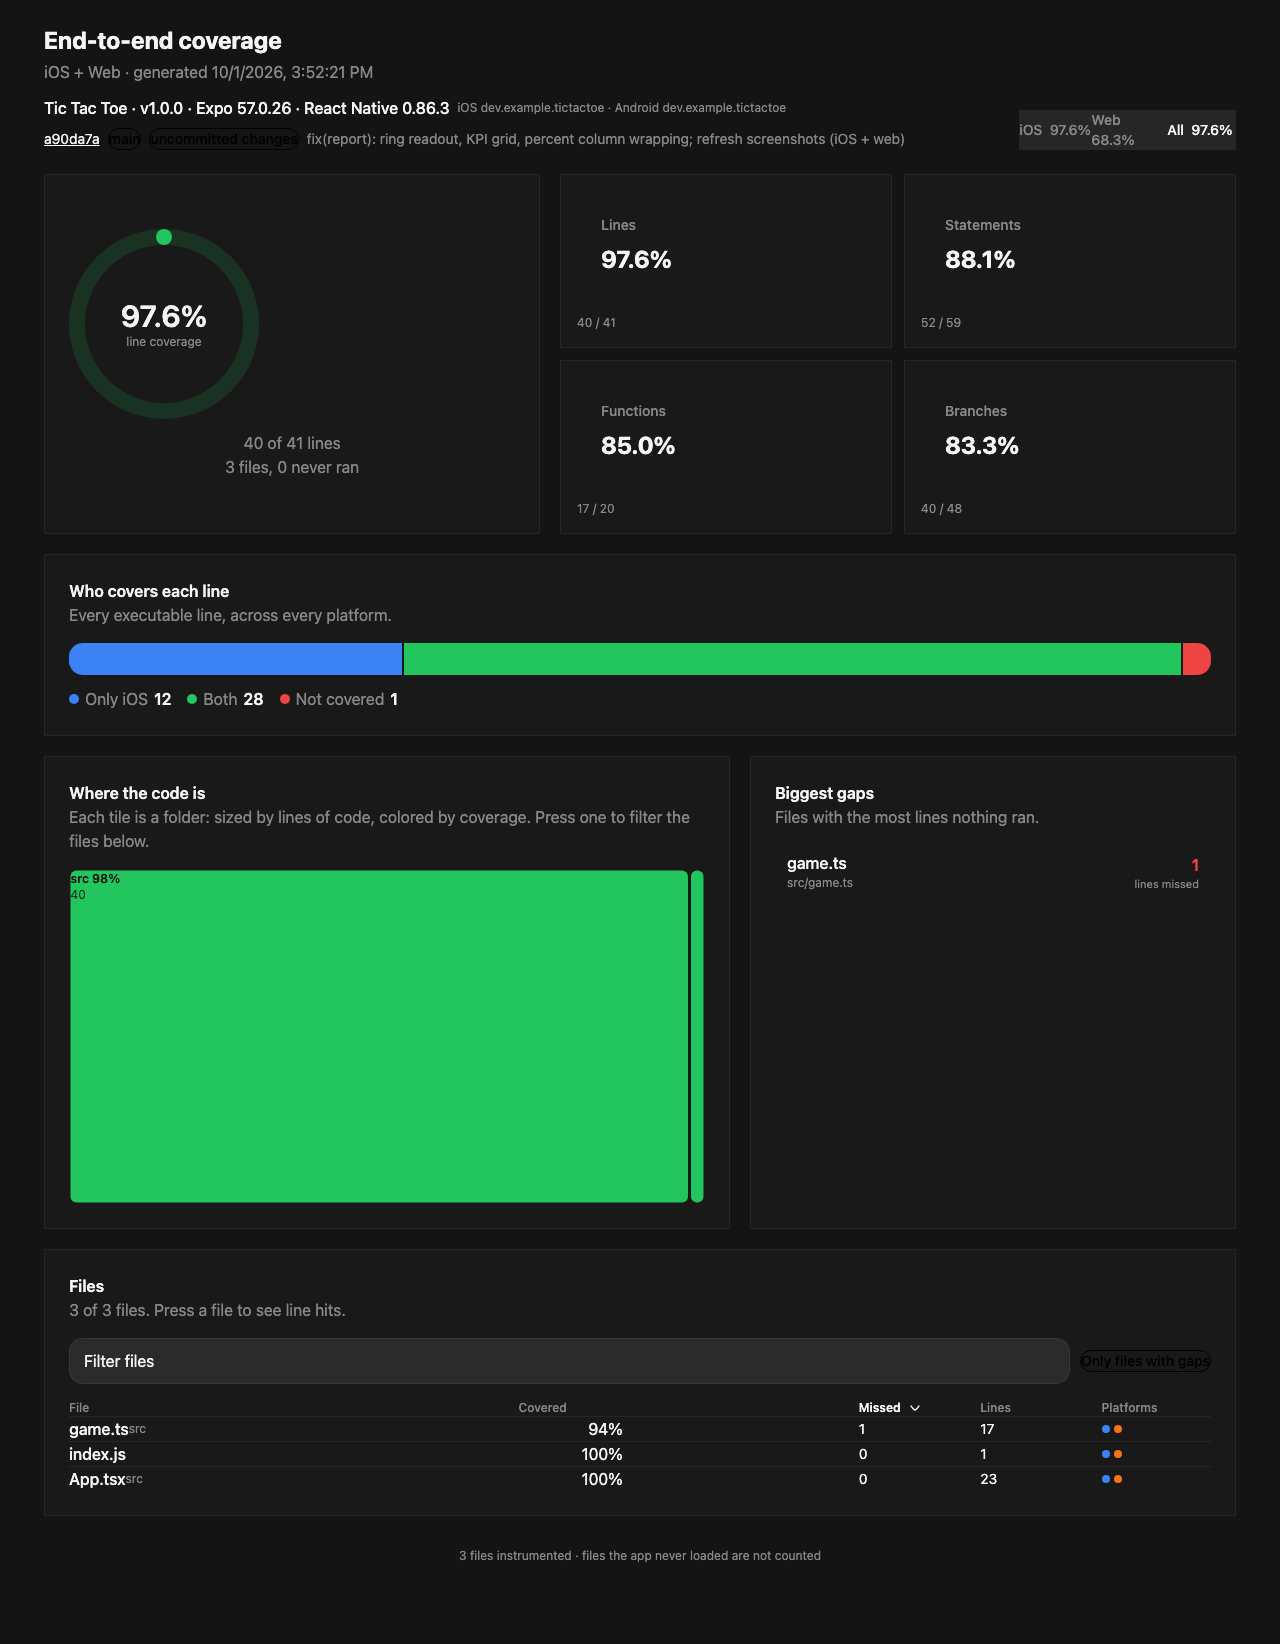
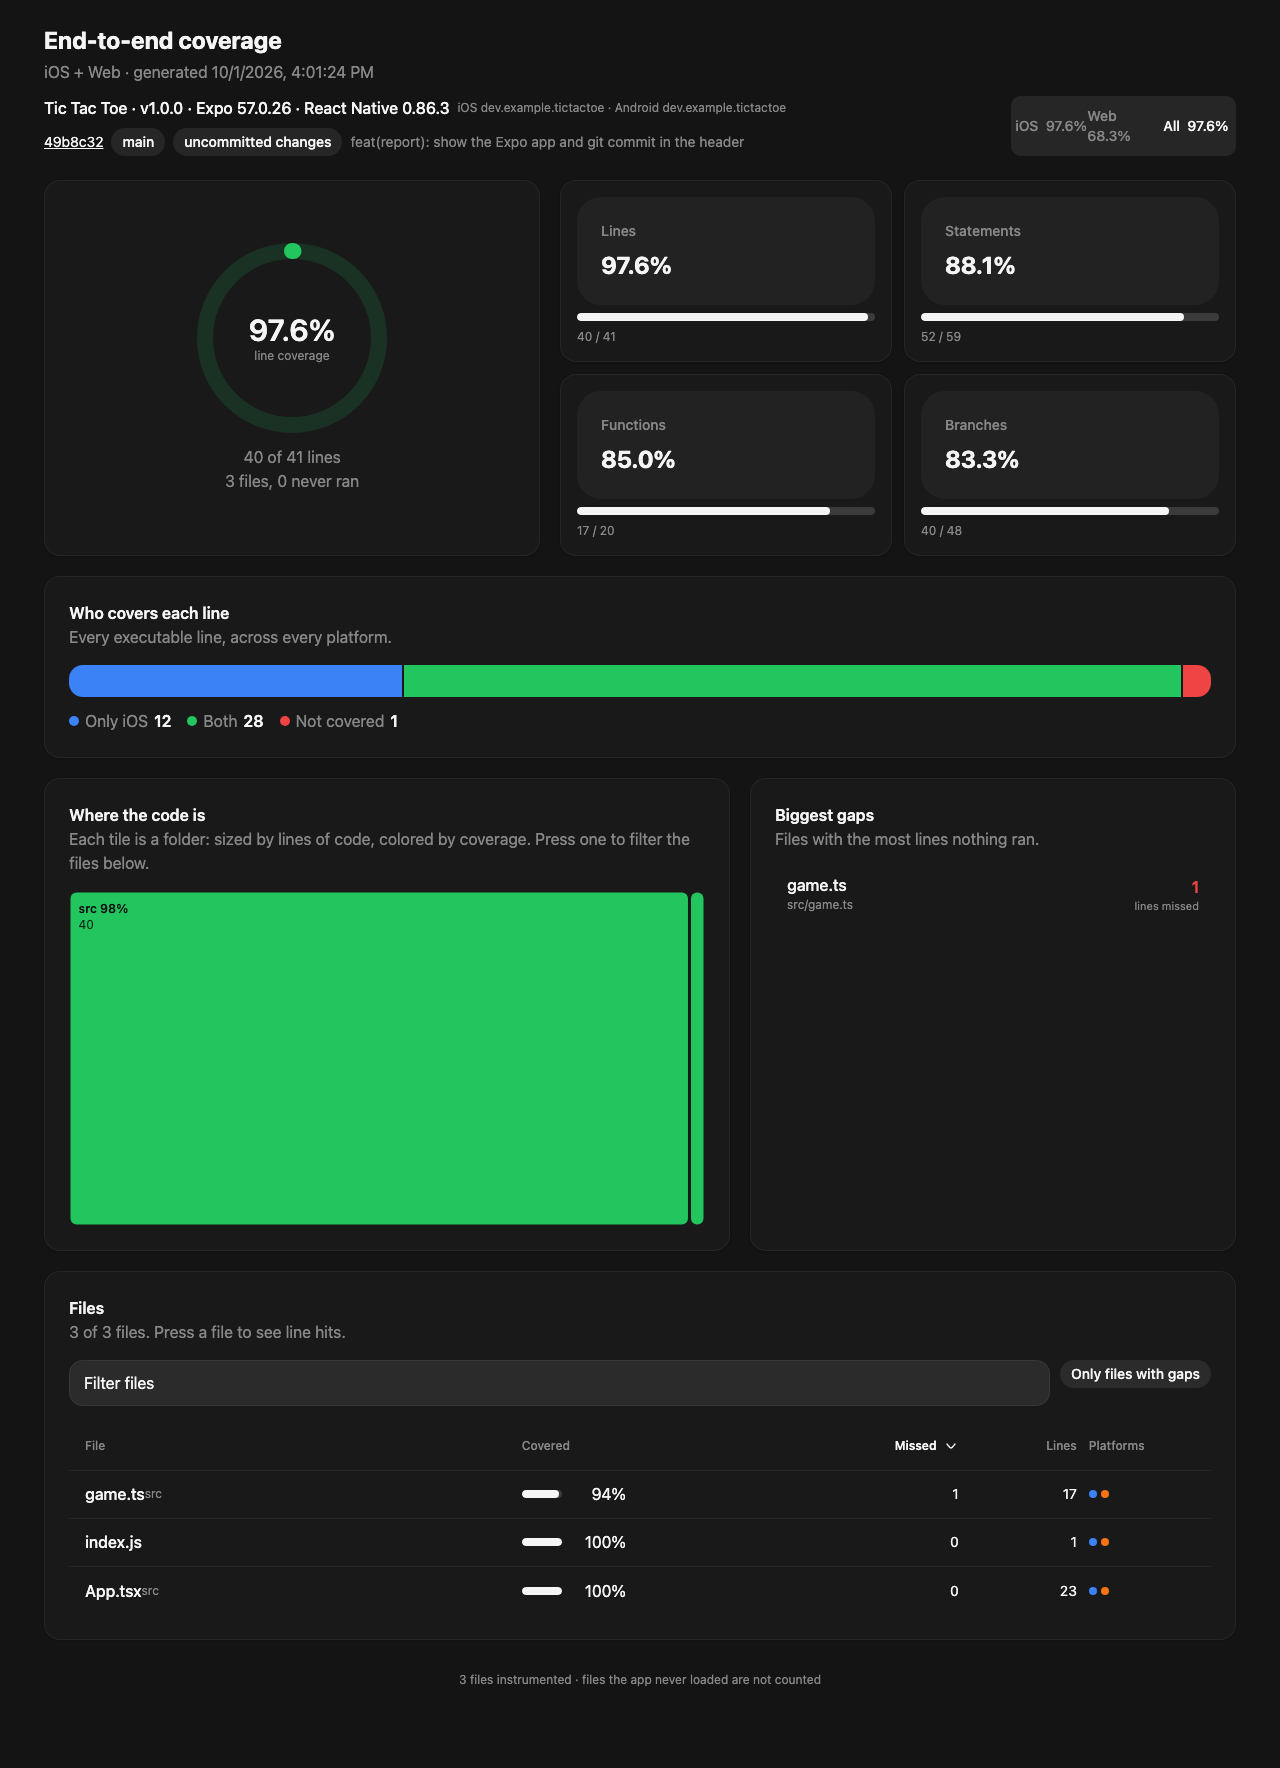
fix(report): point Tailwind @source at the hoisted PanelUI; add style validation (Chromium + WebKit)

diff --git a/packages/report/src/components/Header.tsx b/packages/report/src/components/Header.tsx
@@ -9,7 +9,7 @@ export function Header({ data, tab, onTab }: { data: CoverageData; tab: Tab; onT
   const tabs: Tab[] = [...data.platforms, ...(data.platforms.length > 1 ? (['all'] as const) : [])];
   return (
     <View className="mb-6 flex-row flex-wrap items-end justify-between gap-4">
-      <View>
+      <View style={{ maxWidth: '100%', flexShrink: 1 }}>
         <Text className="text-2xl font-bold text-foreground">{data.title}</Text>
         <Text className="mt-1 text-muted-foreground">
           {data.platforms.map((p) => LABEL[p]).join(' + ')} · generated {new Date(data.generated).toLocaleString()}
@@ -42,7 +42,7 @@ function Meta({ data }: { data: CoverageData }) {
         {ids.length > 0 && <Text className="text-xs text-muted-foreground">{ids.join(' · ')}</Text>}
       </View>
       {git && (
-        <View className="flex-row flex-wrap items-center gap-2">
+        <View className="flex-row flex-wrap items-center gap-2" style={{ maxWidth: '100%' }}>
           <Pressable disabled={!git.url} onPress={() => git.url && void Linking.openURL(git.url)} accessibilityRole={git.url ? 'link' : undefined}>
             <Text className="font-mono text-sm text-foreground" style={git.url ? { textDecorationLine: 'underline' } : undefined}>
               {git.short}

diff --git a/packages/report/src/global.css b/packages/report/src/global.css
@@ -2,3 +2,4 @@
 @import 'uniwind';
 @import 'panelui-native/theme.css';
 @source '../node_modules/panelui-native/src';
+@source '../../../node_modules/panelui-native/src';
